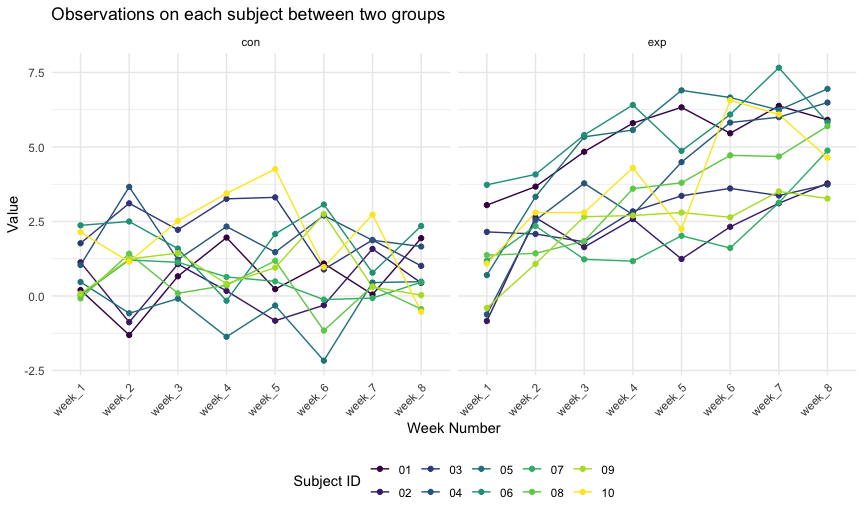
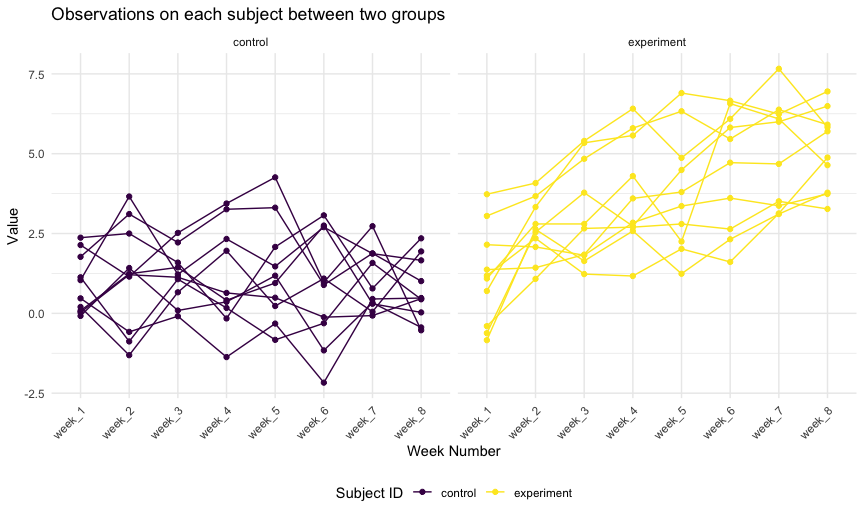
finally work out the code for t test simulation

diff --git a/p8105_hw5_xy2476.md b/p8105_hw5_xy2476.md
@@ -1,7 +1,7 @@
 Homework 5 solutions
 ================
 Rio Yan
-2020-11-14
+2020-11-16
 
 ## Problem 1
 
@@ -362,11 +362,14 @@ path_df_graph =
     week_1:week_8,
     names_to = "week_num",
     values_to = "value"
-  ) 
+  ) %>% 
+  mutate(
+    control_arm = recode_factor(control_arm,"con" = "control", "exp" = "experiment")
+  )
 
 path_df_graph %>% 
   ggplot(aes(x = week_num, y = value, 
-             group = subject_id, color = factor(subject_id))) +
+             group = subject_id, color = factor(control_arm))) +
   geom_line() + geom_point() +
   facet_grid(. ~ control_arm) +
   labs(title = "Observations on each subject between two groups",
@@ -387,20 +390,36 @@ start and in the end.
 ``` r
 set.seed(1)
 
-sim_mean_sd = function(n, mu = 0, sigma = 5) {
+sim_mean_sd = function(n, mu, sigma = 5) {
   
   sim_data = tibble(
-    x = rnorm(n, mean = mu, sd = sigma)
+    x = rnorm(n = 30, mean = mu, sd = sigma)
   ) 
   
   sim_data %>% 
-    t.test(mu = 0) %>% 
+    t.test(mu = mu) %>% 
     broom::tidy() %>% 
     select(estimate, p.value)
   
 }
 
-output = vector("list", 100)
 
-sim_result = rerun(100, sim_mean_sd(30, 0, 5)) %>% bind_rows()
+sim_results = 
+  tibble(mu_list = c(0, 1, 2, 3, 4, 5, 6)) %>% 
+  mutate(
+    output_lists = map(.x = mu_list, ~rerun(5, sim_mean_sd(mu = .x))),
+    estimate_dfs = map(output_lists, bind_rows)) %>% 
+    print(estimate_dfs) %>% 
+    unnest(estimate_dfs)
 ```
+
+    ## # A tibble: 7 x 3
+    ##   mu_list output_lists estimate_dfs    
+    ##     <dbl> <list>       <list>          
+    ## 1       0 <list [5]>   <tibble [5 × 2]>
+    ## 2       1 <list [5]>   <tibble [5 × 2]>
+    ## 3       2 <list [5]>   <tibble [5 × 2]>
+    ## 4       3 <list [5]>   <tibble [5 × 2]>
+    ## 5       4 <list [5]>   <tibble [5 × 2]>
+    ## 6       5 <list [5]>   <tibble [5 × 2]>
+    ## 7       6 <list [5]>   <tibble [5 × 2]>
